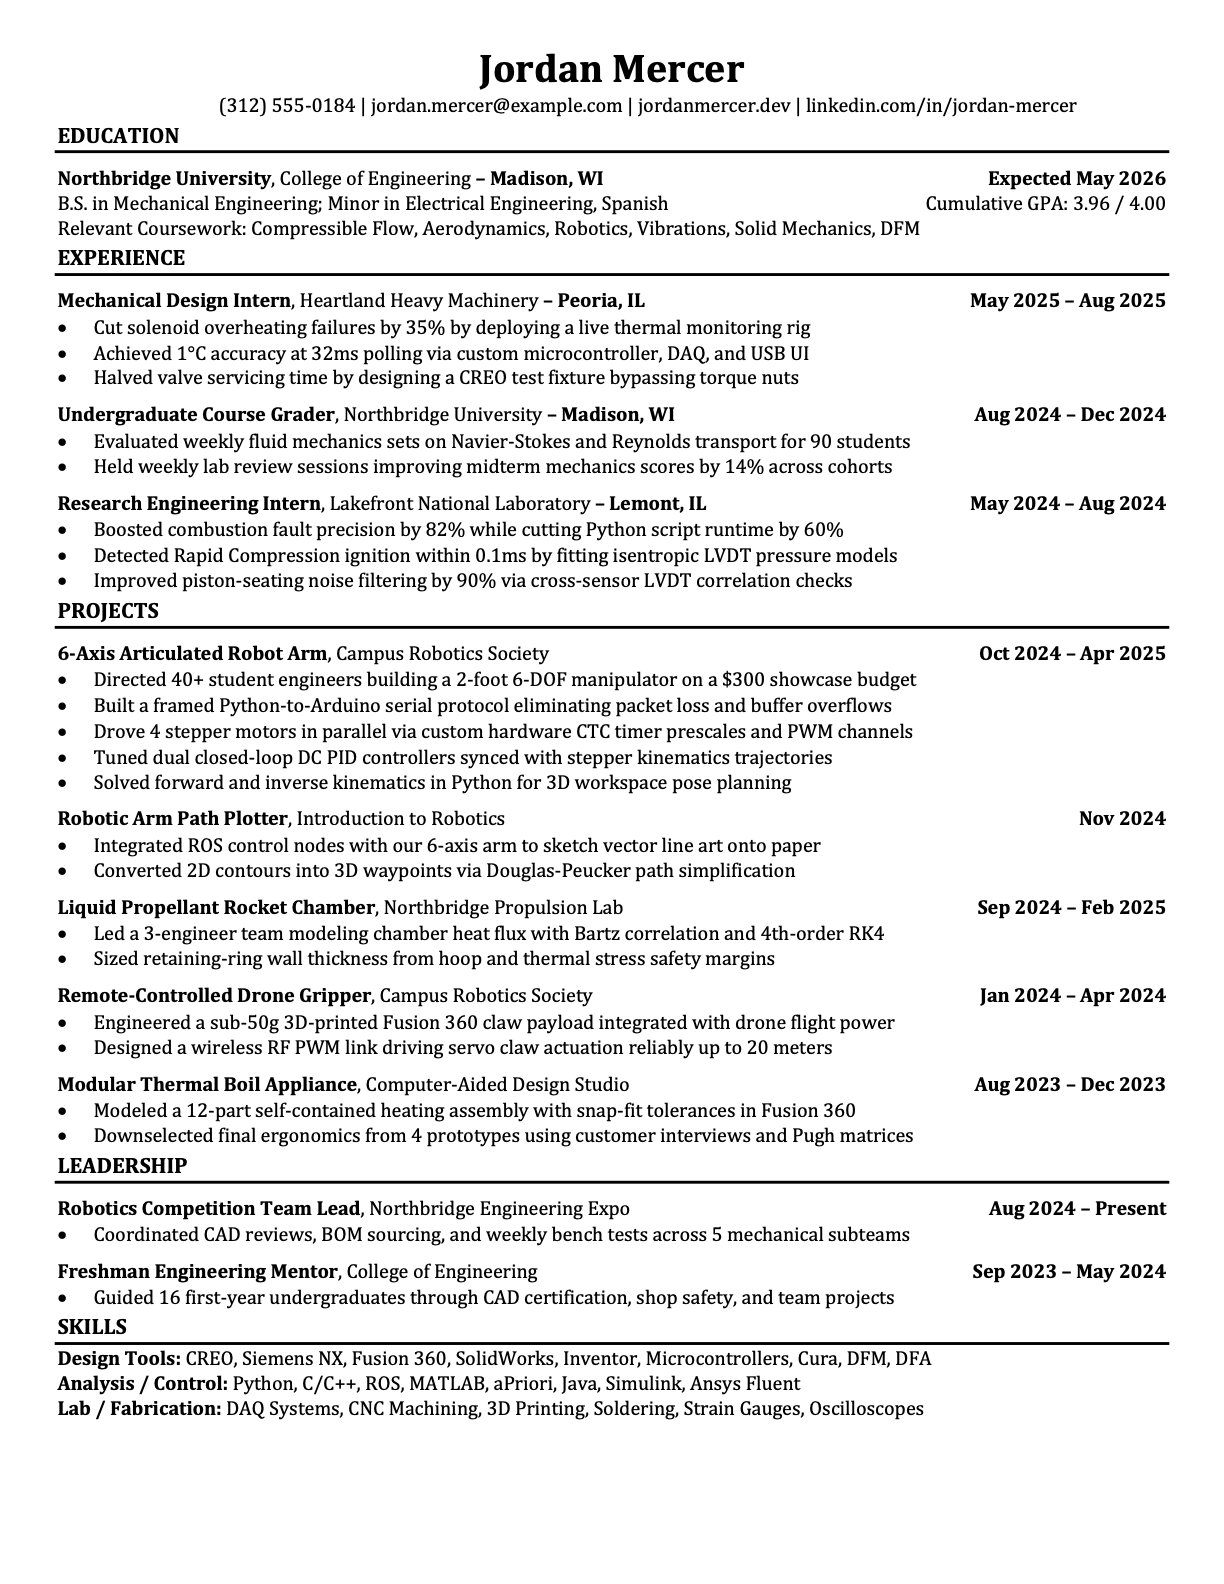
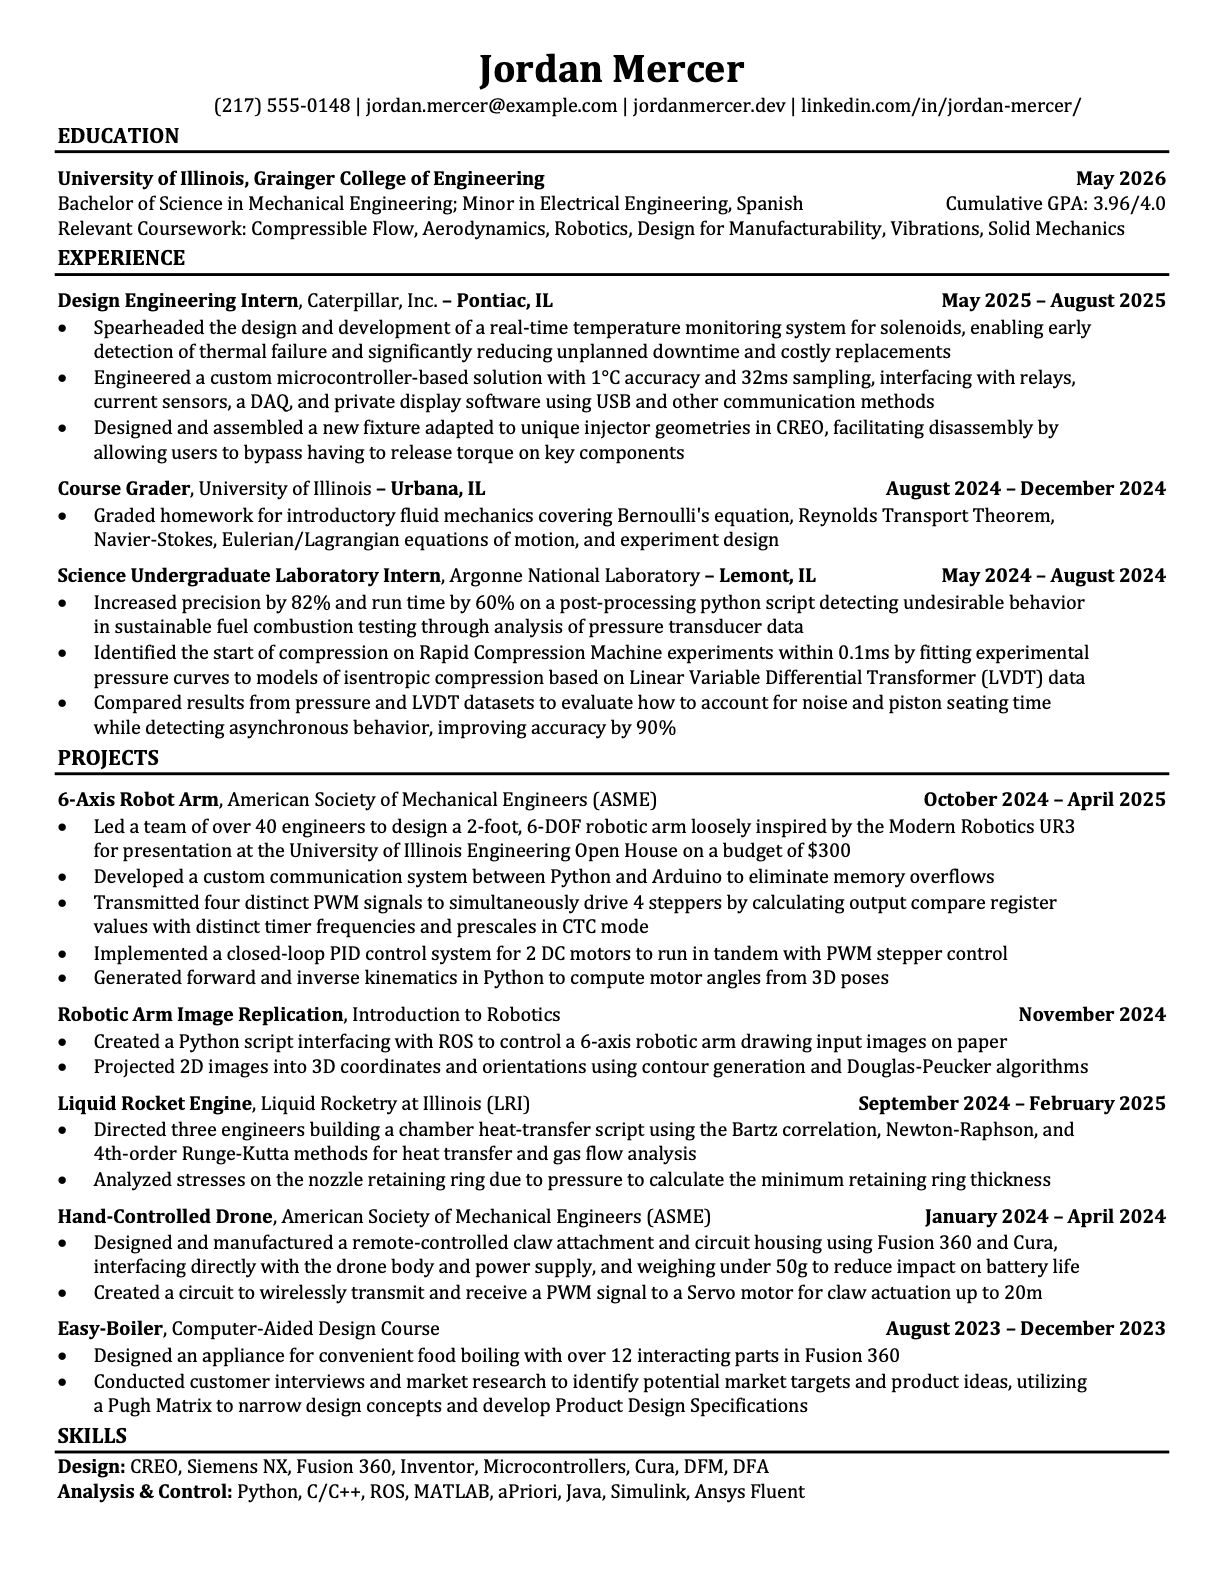
Update example resume image to match filled inspiration resume

Changed region(s): [[0.031, 0.1856, 0.9624, 0.959], [0.0621, 0.0619, 0.9314, 0.1547]]

diff --git a/README.md b/README.md
@@ -139,7 +139,7 @@ Then open `http://localhost:5050`.
 
 ## Example Output
 
-Below is a single-page resume generated directly from `Base_Template.docx` using structured sections (`EDUCATION`, `EXPERIENCE`, `PROJECTS`, `LEADERSHIP`, and key-value `SKILLS`):
+Below is a single-page resume generated directly from `Base_Template.docx` using structured sections (`EDUCATION`, `EXPERIENCE`, `PROJECTS`, and key-value `SKILLS`):
 
 ![Example 1-page resume generated by The Free Resume Builder](docs/example-resume.png)
 
